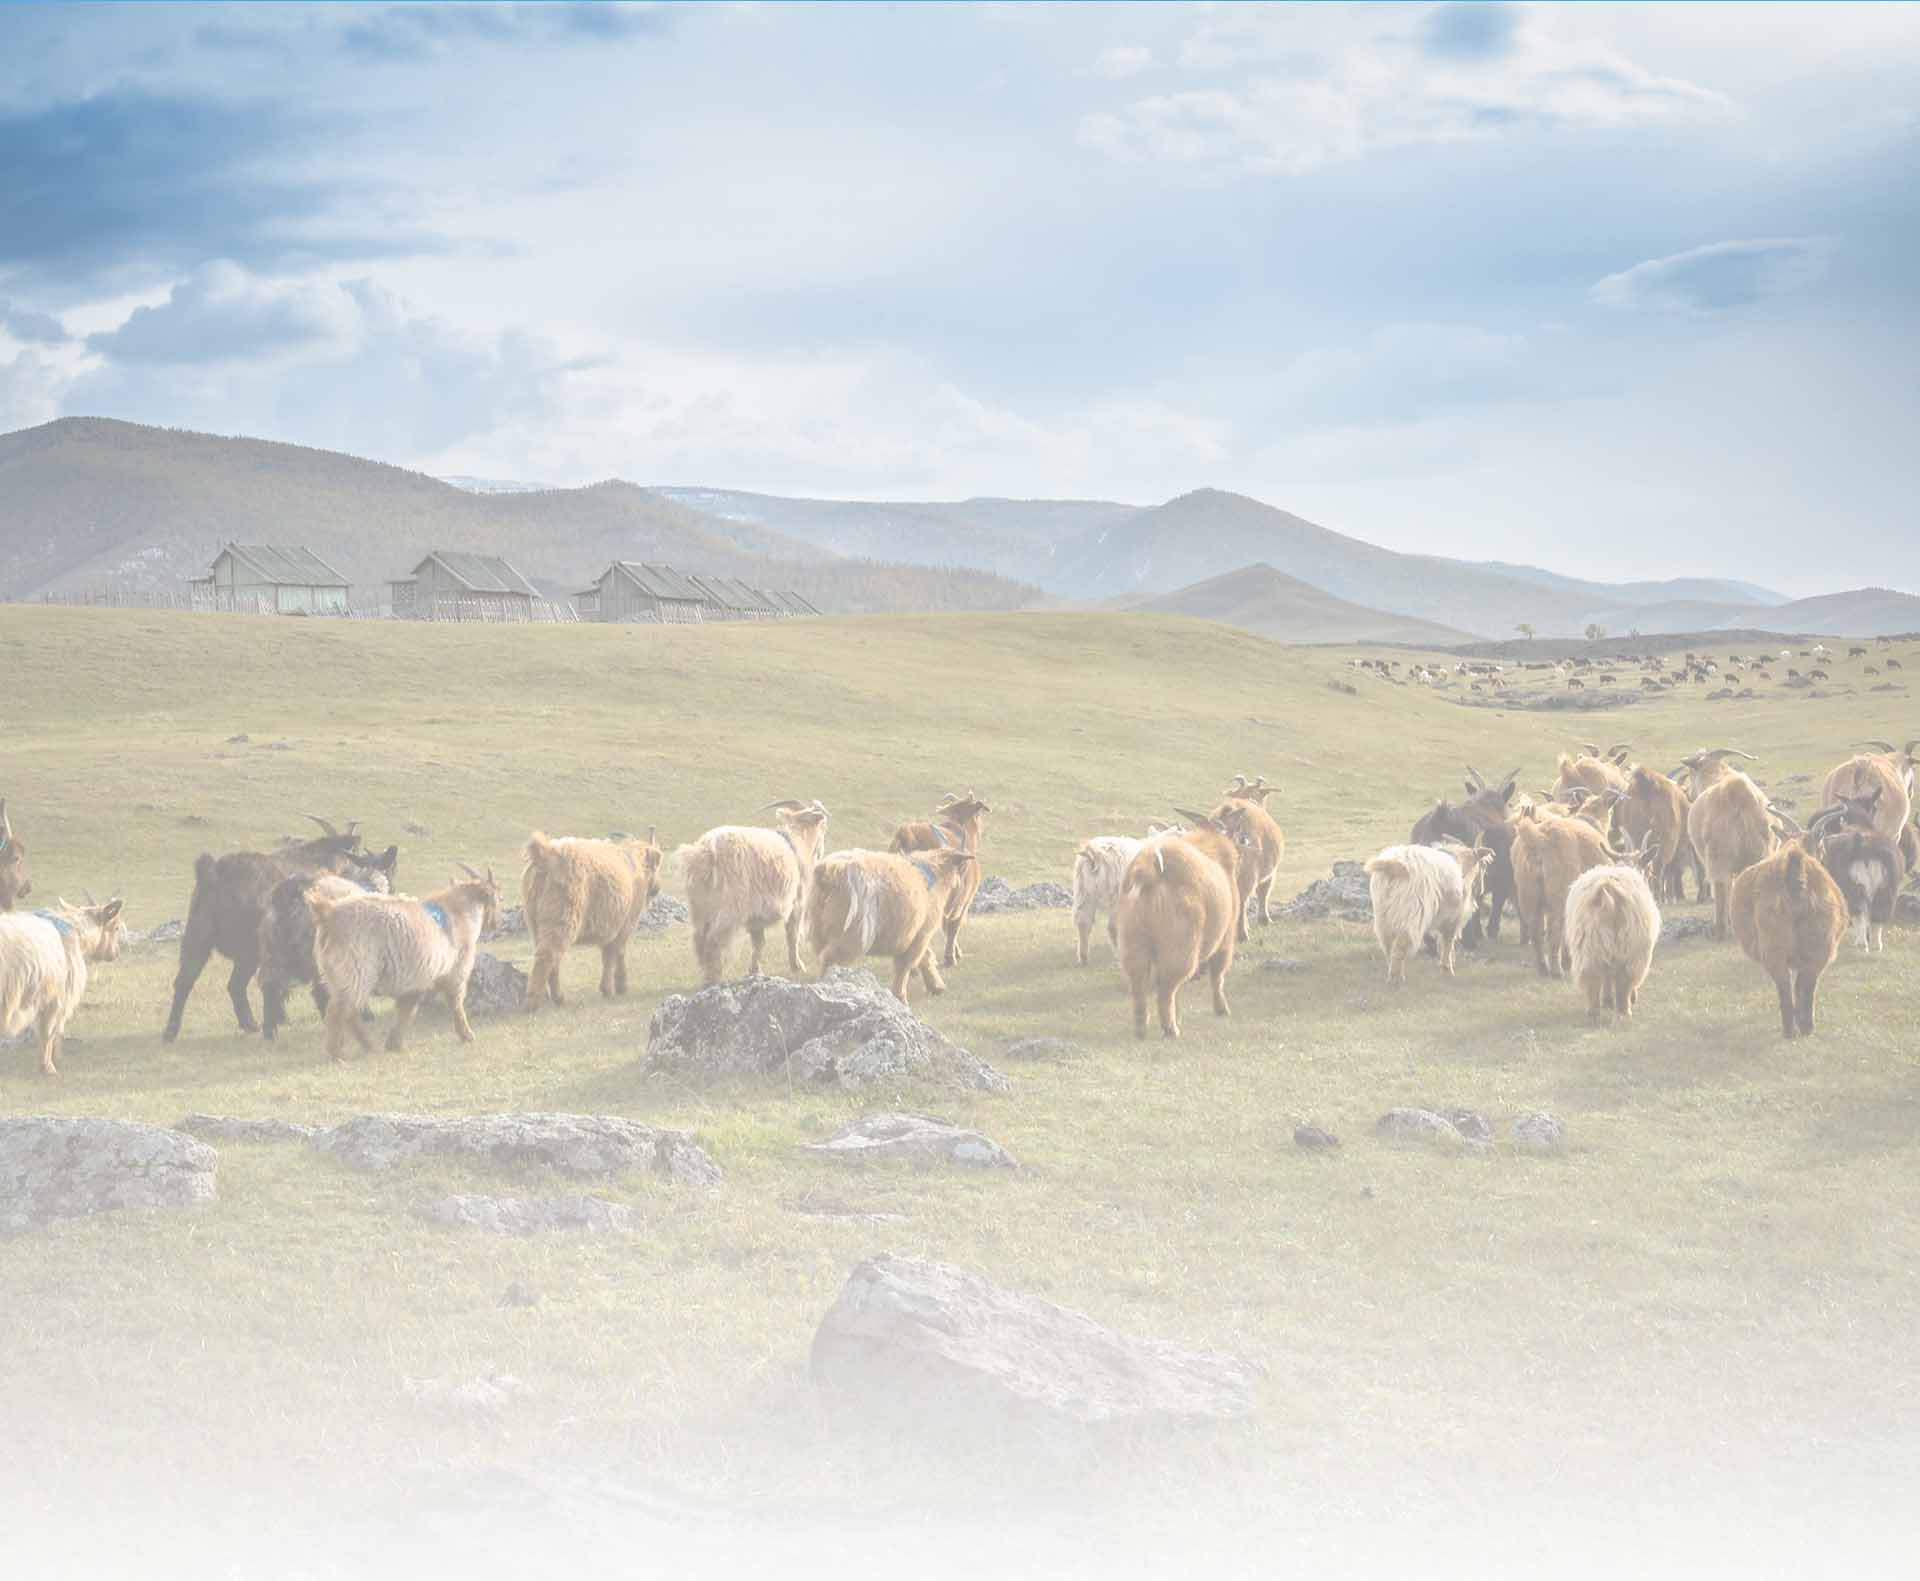
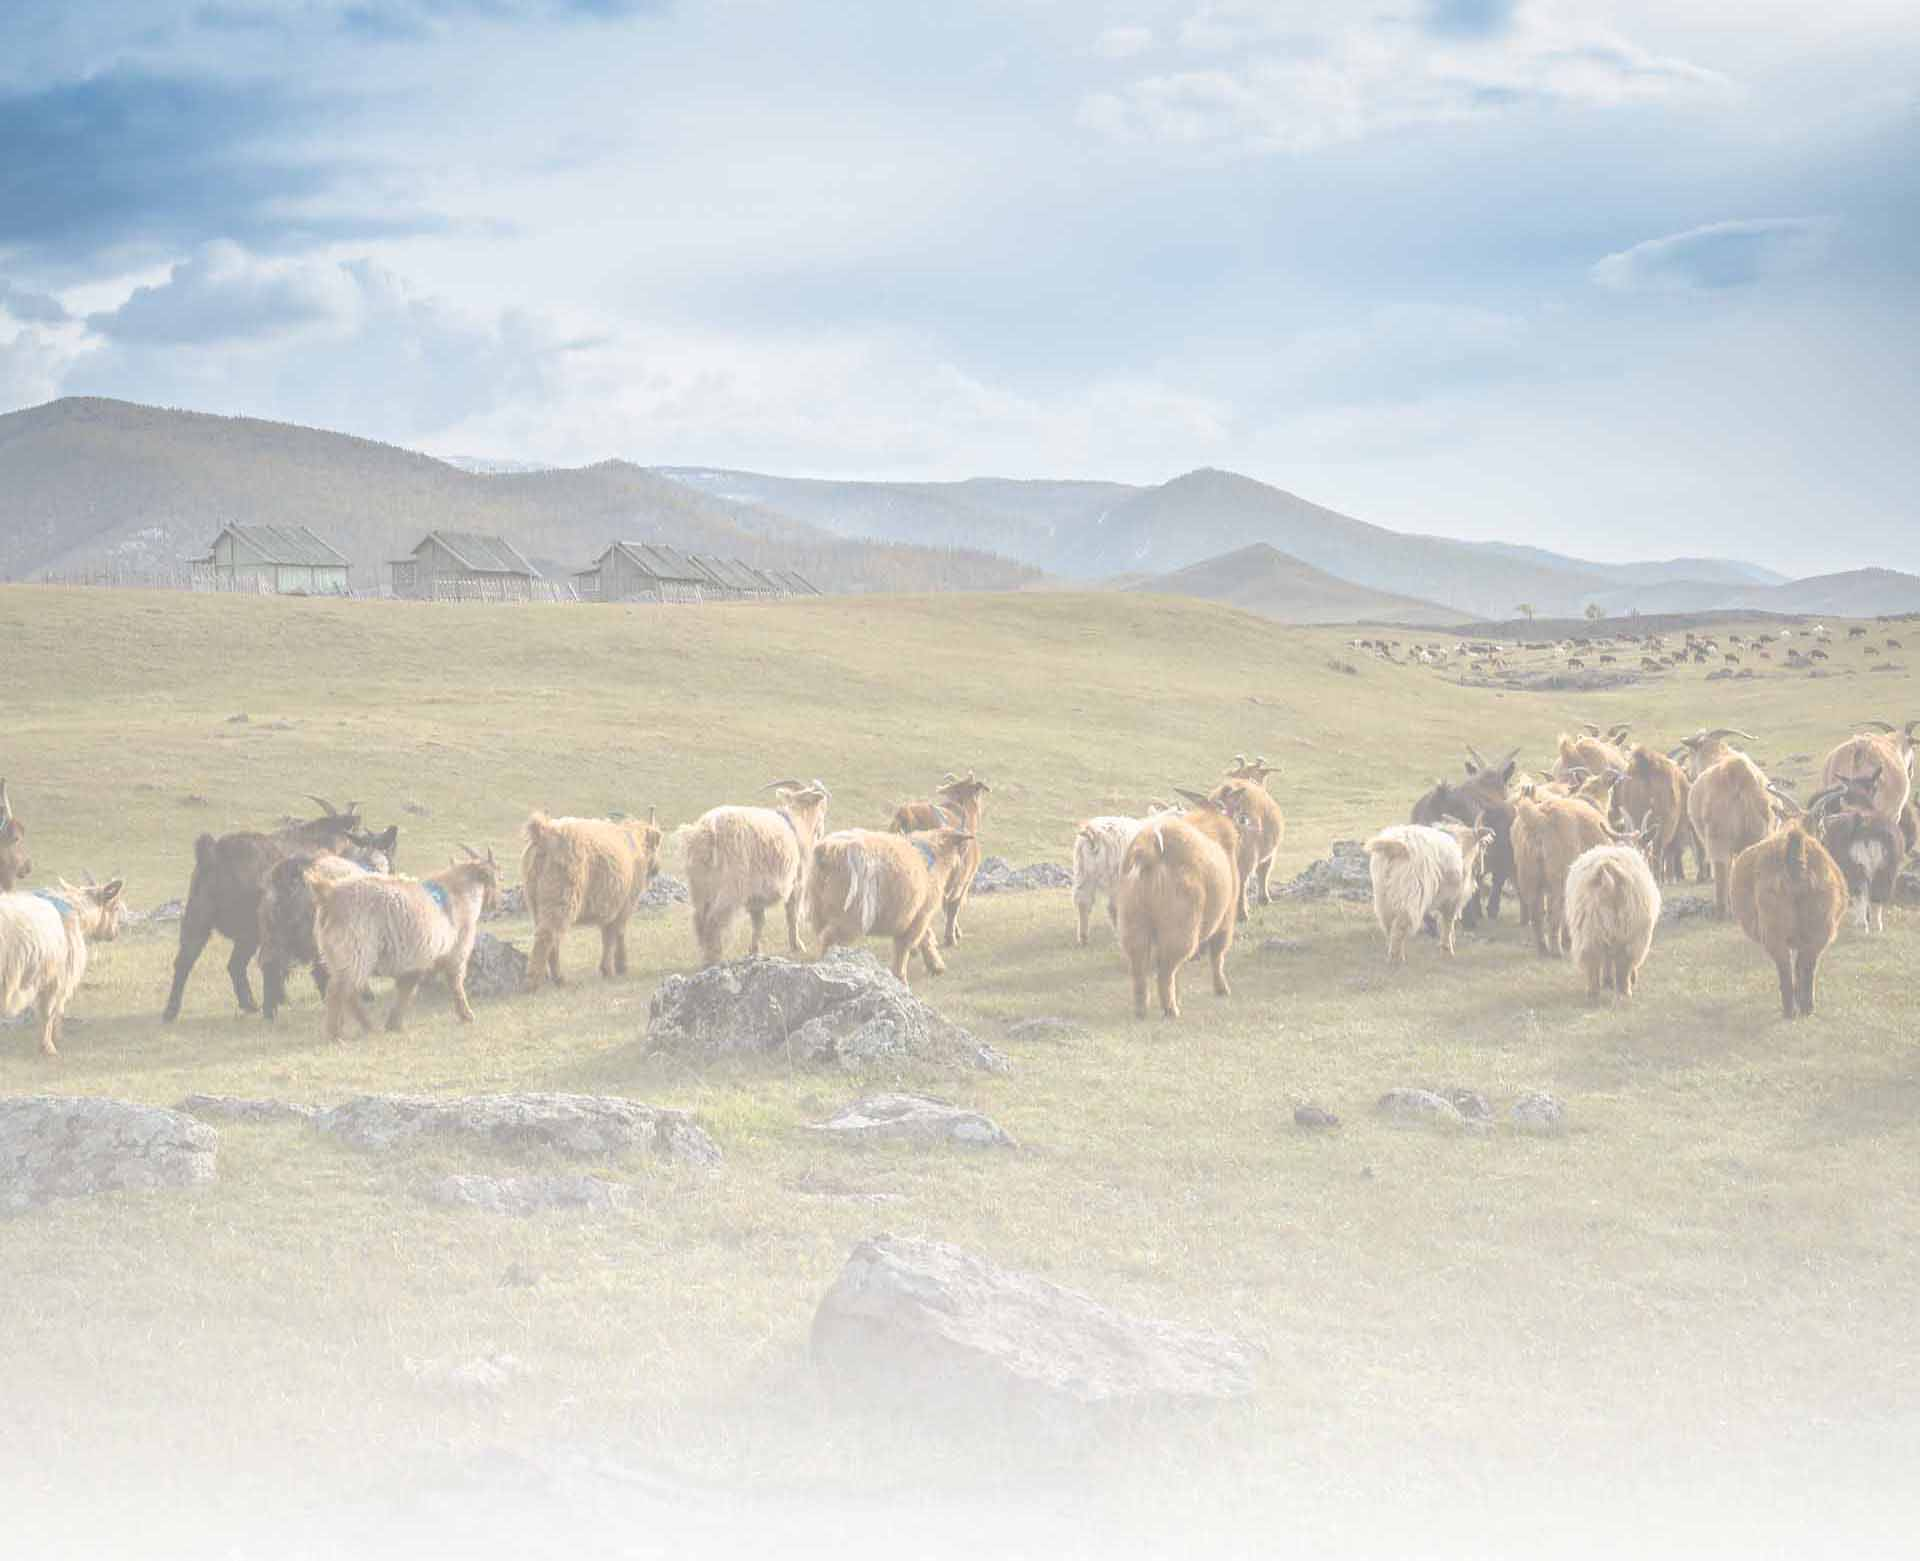
edit stylys

diff --git a/src/lib/style/index.css b/src/lib/style/index.css
@@ -7,44 +7,46 @@
 .normal-main-with-bg{
   width:100%;
   padding:50px 0;
-  background:url(../../images/normal-content-bg.jpg) center center no-repeat;
-  background-size:cover;
+}
+.basic{
+  background:url(../../images/normal-content-bg.jpg) top center no-repeat;
+  background-size:220%;
 }
 .normal-main-with-bg.nongyexinxi{
-  background:url("../../images/nongyexinxi.jpg") center center no-repeat;
-  background-size:cover;
+  background:url("../../images/nongyexinxi.jpg") top center no-repeat;
+  background-size:220%;
 }
 .normal-main-with-bg.nongchanpin{
-  background:url("../../images/nongchanpin.jpg") center center no-repeat;
-  background-size:cover;
+  background:url("../../images/nongchanpin.jpg") top center no-repeat;
+  background-size:220%;
 }
 .normal-main-with-bg.nongyejixie{
-  background:url("../../images/nongyejixie.jpg") center center no-repeat;
-  background-size:cover;
+  background:url("../../images/nongyejixie.jpg") top center no-repeat;
+  background-size:220%;
 }
 .normal-main-with-bg.nongyeziyuan{
-  background:url("../../images/nongyeziyuan.jpg") center center no-repeat;
-  background-size:cover;
+  background:url("../../images/nongyeziyuan.jpg") top center no-repeat;
+  background-size:220%;
 }
 .normal-main-with-bg.zhiwubaohukexue{
-  background:url("../../images/zhiwubaohukexue.jpg") center center no-repeat;
-  background-size:cover;
+  background:url("../../images/zhiwubaohukexue.jpg") top center no-repeat;
+  background-size:220%;
 }
 .normal-main-with-bg.shouyikexue{
-  background:url("../../images/shouyikexue.jpg") center center no-repeat;
-  background-size:cover;
+  background:url("../../images/shouyikexue.jpg") top center no-repeat;
+  background-size:220%;
 }
 .normal-main-with-bg.xumukexue{
-  background:url("../../images/xumukexue.jpg") center center no-repeat;
-  background-size:cover;
+  background:url("../../images/xumukexue.jpg") top center no-repeat;
+  background-size:220%;
 }
 .normal-main-with-bg.yuanyikexue{
-  background:url("../../images/yuanyikexue.jpg") center center no-repeat;
-  background-size:cover;
+  background:url("../../images/yuanyikexue.jpg") top center no-repeat;
+  background-size:220%;
 }
 .normal-main-with-bg.zuowukexue{
-  background:url("../../images/zuowukexue.jpg") center center no-repeat;
-  background-size:cover;
+  background:url("../../images/zuowukexue.jpg") top center no-repeat;
+  background-size:220%;
 }
 .normal-main-con{
   width:1200px;

diff --git a/src/pages/AboutUs/index.jsx b/src/pages/AboutUs/index.jsx
@@ -47,7 +47,7 @@ class AboutUs extends React.Component{
       <div>
         <Header />
         <Nav />
-        <div className="normal-main-with-bg">
+        <div className="normal-main-with-bg basic">
           <div className="normal-main-con clear">
             <div className="left-menu fl">
               <h1>-&nbsp;关于我们&nbsp;-</h1>

diff --git a/src/components/Meeting/MeetingContent/meetingContent.jsx b/src/components/Meeting/MeetingContent/meetingContent.jsx
@@ -10,7 +10,7 @@ class MeetingContent extends React.Component{
 
   render() {
     return (
-      <div className="normal-main-with-bg">
+      <div className="normal-main-with-bg basic">
         <div className="normal-main-con">
           <MeetingContentCenter {...this.props}/>
           <MeetingContentQuery {...this.props}/>

diff --git a/src/components/Hot/HotContent/hotContent.jsx b/src/components/Hot/HotContent/hotContent.jsx
@@ -105,7 +105,7 @@ class HotContent extends React.Component{
       );
     });
     return (
-      <div className="normal-main-with-bg">
+      <div className="normal-main-with-bg basic">
         <div className="normal-main-con clear">
           {(hotListData && hotListData.length>0) ? (
             <div className="clear">

diff --git a/src/components/Detail/DetailsContent/detailsContent.jsx b/src/components/Detail/DetailsContent/detailsContent.jsx
@@ -8,7 +8,7 @@ class DetailsContent extends React.Component {
 
   render() {
     return (
-      <div className="normal-main-with-bg">
+      <div className="normal-main-with-bg basic">
         <div className="normal-main-con clear">
           <DetailsLeft {...this.props}/>
         </div>
